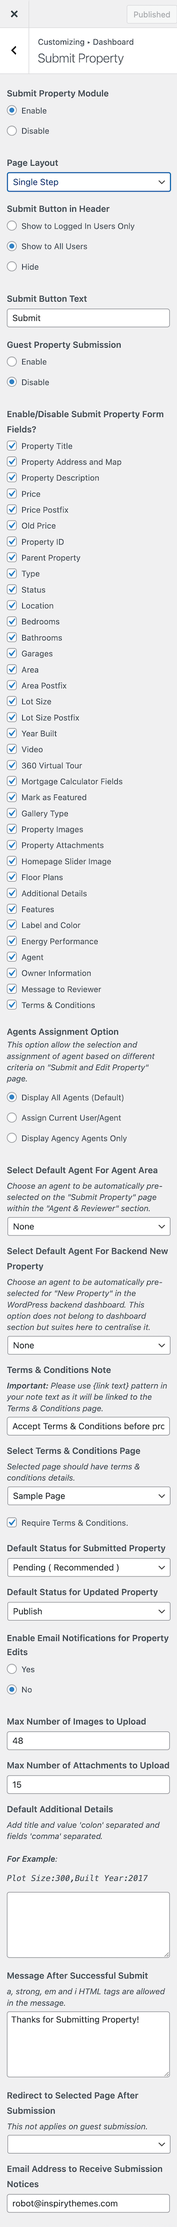
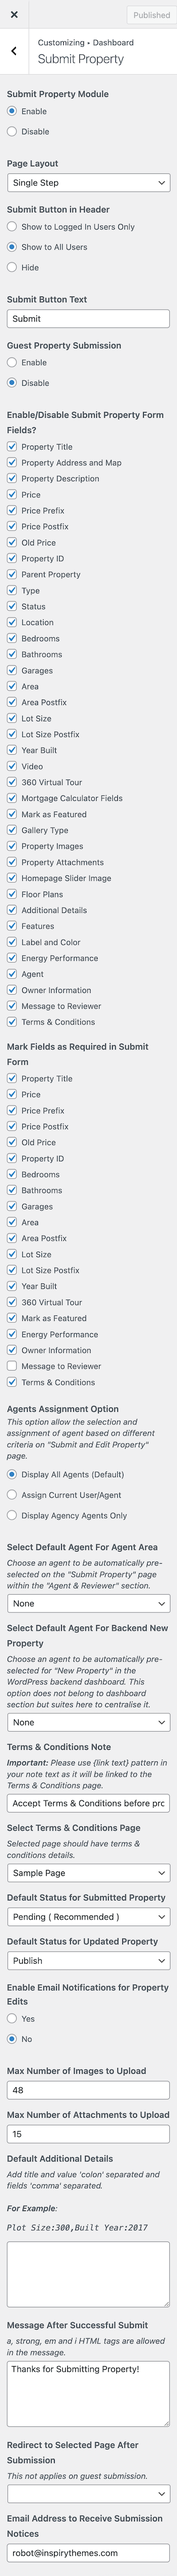
Updated submit property settings and added mark fields as required

Changed region(s): [[0.0286, 0.0, 0.9714, 0.9975], [0.9143, 0.7793, 0.9714, 0.8105], [0.9429, 0.0623, 0.9714, 0.0935]]

diff --git a/docs/submit-property.md b/docs/submit-property.md
@@ -80,6 +80,33 @@ Toggle the display of specific fields in the property submission form:
 
 ---
 
+## 🧩 Mark Submit Property Form Fields as Required
+
+Choose which fields appear in the property submission form and mark them as **required** as needed:
+
+- Property Title
+- Price
+- Price Prefix
+- Price Postfix
+- Old Price
+- Property ID
+- Bedrooms
+- Bathrooms
+- Garages
+- Area
+- Area Postfix
+- Lot Size
+- Lot Size Postfix
+- Year Built
+- 360 Virtual Tour
+- Mark as Featured
+- Energy Performance
+- Owner Information
+- Message to Reviewer
+- Terms & Conditions
+
+---
+
 ## 👥 Agents Assignment Option
 
 Choose how agent(s) are assigned when submitting a property:
